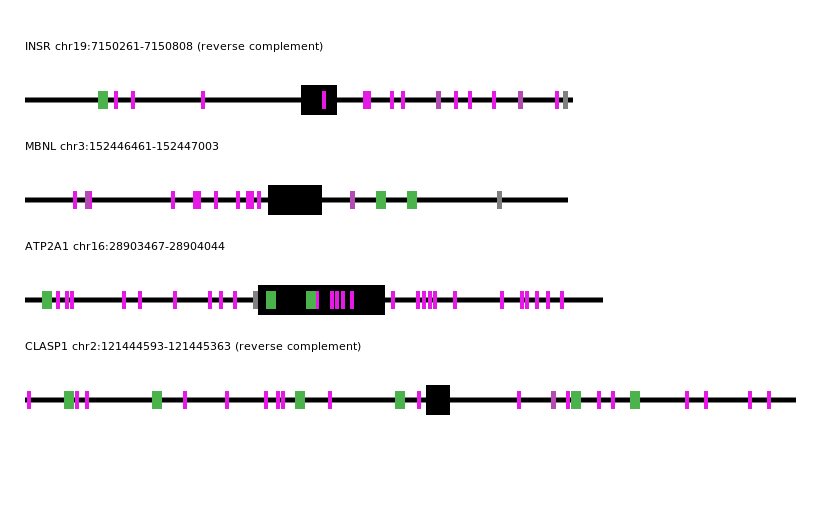
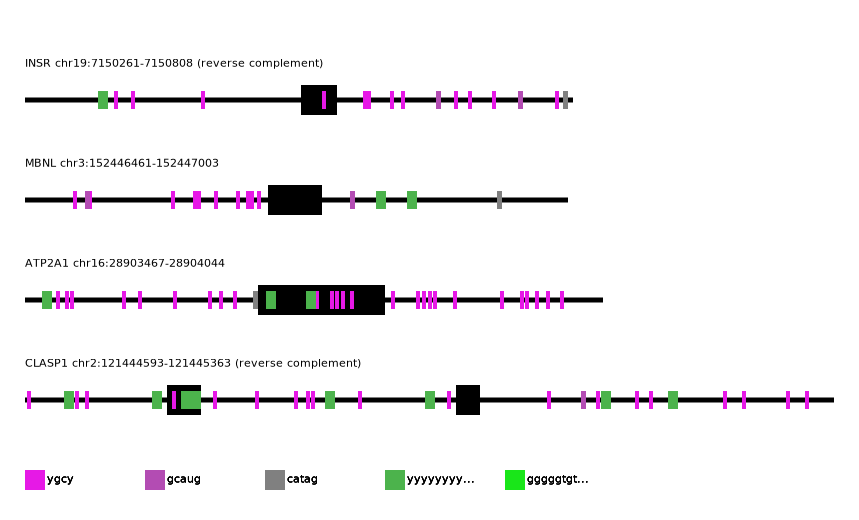
added labels for motifs but something is wrong with the last motif label

diff --git a/motif-mark-oop.py b/motif-mark-oop.py
@@ -14,7 +14,7 @@ from re import finditer
 
 #set up argparse
 def get_args():
-    parser = argparse.ArgumentParser(description="Takes a FASTA file with exons denoted in CAPS, and a motif file. Outputs one .png with one image per sequence of motif positions on the sequence.")
+    parser = argparse.ArgumentParser(description="Takes a FASTA file with exons denoted in CAPS, and a motif text file with one motif per line (case insensitive). Outputs one .png with one image per sequence of motif and exon positions on the sequence. Aware of ambiguous nucleotides.")
     parser.add_argument("-f", "--fastafile", help="FASTA file to read", required=True, type=str)
     parser.add_argument("-m", "--motiffile", help="Motif text file to read", required=True, type=str)
     return parser.parse_args()
@@ -56,15 +56,22 @@ class Motif:
         self.position = None
         self.regex = None
         self.number:int = number+1
+        self.label = None 
         
         # attributes for drawing # 
         self.color = None
-        self.red = None
-        self.green = None
-        self.blue = None
+        self.red:float = None
+        self.green:float = None
+        self.blue:float = None
     
     def __repr__(self):
         return(f'{self.sequence}')
+    
+    def shortenlabel(self):
+        if len(self.sequence) > 8:
+            self.label = self.sequence[:8] + "..." # shorten long motifs to label friendly format
+        else:
+            self.label = self.sequence
 
     # Methods #
     
@@ -109,26 +116,23 @@ class Motif:
         self.blue:float = 1-((2*(self.number))-1)/10 # limiting 0.2-0.8 guaruntees can't be white (1,1,1) or black (0,0,0)
         self.color = (self.red, self.green, self.blue) # use tuple so order does not change because order = color
         return
-        # make sure you include a checking step to ensure that no motifs are the same color. if they are are, reaassign color with colorit
-    
-    #def draw(self, somethingelse):
-    #    call context here to draw with cairo
 
 class Canvas: # the canvas I will be drawing on # 
     def __init__(self, totalsequences, longestsequence):
         self.height:int = totalsequences*130
         self.width:int = int(longest_sequence+50)
-        self.xlabel = (totalsequences+1)*
         self.buffer: int = 25
         self.constant: int = 100
-    # label information # 
-    
+        # label information # 
+        self.xlabel = ((totalsequences+1)*self.constant)-30
+        
 
 
 # >> define functions << # 
 
 # read in motifs into list # 
 def parse_motif(motiffile: str) -> list:
+    '''read motifs from a text file with one motif per line into a list'''
     motifs = []
     with open(motiffile) as fh:
         for line in fh:
@@ -138,6 +142,7 @@ def parse_motif(motiffile: str) -> list:
 
 # read in sequences into dictionary {sequence : header} # 
 def parse_fasta(onelinefastafile: str) -> dict:
+    '''read sequences and headers in from a fasta file to a dictionary'''
     sequences = {}
     with open(onelinefastafile) as fh:
         for line in fh:
@@ -149,8 +154,8 @@ def parse_fasta(onelinefastafile: str) -> dict:
                 sequences[sequence] = header # put in dictionary
     return sequences
 
-# determine the longest sequence from a list of sequence objects with attribute "length" (use to determine width of png) #
 def longest(sequence_obj_list: list) -> int:
+    '''determine the longest sequence from a list of sequence objects with attribute "length"'''
     longest: int = 0
     for a in sequence_obj_list: 
         if a.length > longest:
@@ -170,12 +175,10 @@ if __name__ == "__main__":
     # make motif objects # 
     motif_obj_list: list = []
     motif_obj_list += [Motif(motifsequence, i) for i, motifsequence in enumerate(motifs)] #for each motif create object Motif(motif) and store in list
-    colors = []
     for motif in motif_obj_list:
         motif.colorit()
-        colors.append(motif.color)
         motif.regexify()
-
+        motif.shortenlabel()
 
     # make sequence objects # 
     sequence_obj_list: list = []
@@ -192,8 +195,6 @@ if __name__ == "__main__":
     longest_sequence:int = longest(sequence_obj_list) # determine width of png 
     drawing_canvas = Canvas(totalsequences, longest_sequence)
 
-
-
     # open cairo image file to draw on. RGB24 is the non-transparent option # 
     # use a 25px margin so add 25 to all width values #
     with cairo.ImageSurface(cairo.FORMAT_RGB24, drawing_canvas.width, drawing_canvas.height) as surface:
@@ -208,9 +209,8 @@ if __name__ == "__main__":
             # 1. label sequence # 
             context.set_source_rgb(0.0, 0.0, 0.0) # black
             context.set_font_size(11)
-            context.select_font_face( 
-                "Arial", cairo.FONT_SLANT_NORMAL, cairo.FONT_WEIGHT_NORMAL)
-            context.move_to(drawing_canvas.buffer, (sequence.number*drawing_canvas.constant)-(drawing_canvas.constant/2))
+            context.select_font_face("Arial")
+            context.move_to(drawing_canvas.buffer, (sequence.number*drawing_canvas.constant)-(drawing_canvas.constant/3))
             context.show_text(sequence.header)
             context.stroke()
 
@@ -242,6 +242,21 @@ if __name__ == "__main__":
                         context.move_to(start+drawing_canvas.buffer, sequence.number*drawing_canvas.constant)       
                         context.line_to(finish+drawing_canvas.buffer, sequence.number*drawing_canvas.constant)
                         context.stroke()
+            
+            # 5. add label for motifs # 
+            for i,motif in enumerate(motif_obj_list):
+                context.set_source_rgb(motif.red, motif.green, motif.blue) # white
+                context.rectangle(drawing_canvas.buffer+(i*120),drawing_canvas.xlabel,20,20)
+                context.fill()
+                context.set_source_rgb(0.0, 0.0, 0.0) # black
+                context.set_font_size(11)
+                context.select_font_face("Arial")
+                context.move_to(drawing_canvas.buffer+(i*120)+22,drawing_canvas.xlabel+12.5)
+                context.show_text(motif.label)
+                context.stroke()
+
+        
+        
         # save #
         surface.write_to_png(pngfilename) 
 

diff --git a/drawing.py b/drawing.py
@@ -19,8 +19,8 @@ header = "INSR chr19:7150261-7150808 (reverse complement)"
 sequence1 = 1*100
 end = finish + 25 # buffer 
 
-rectangleheight = totalsequences*200
-rectanglewidth = int(longest_sequence+50)
+rectangleheight = totalsequences*200 # done 
+rectanglewidth = int(longest_sequence+50) # done 
 
 
 
@@ -72,8 +72,6 @@ with cairo.ImageSurface(cairo.FORMAT_RGB24, rectanglewidth, rectangleheight) as 
         context.move_to(start,sequence1)       
         context.line_to(finish,sequence1)
         context.stroke()
-
-
 
     # save 
     surface.write_to_png("tester.png") 
